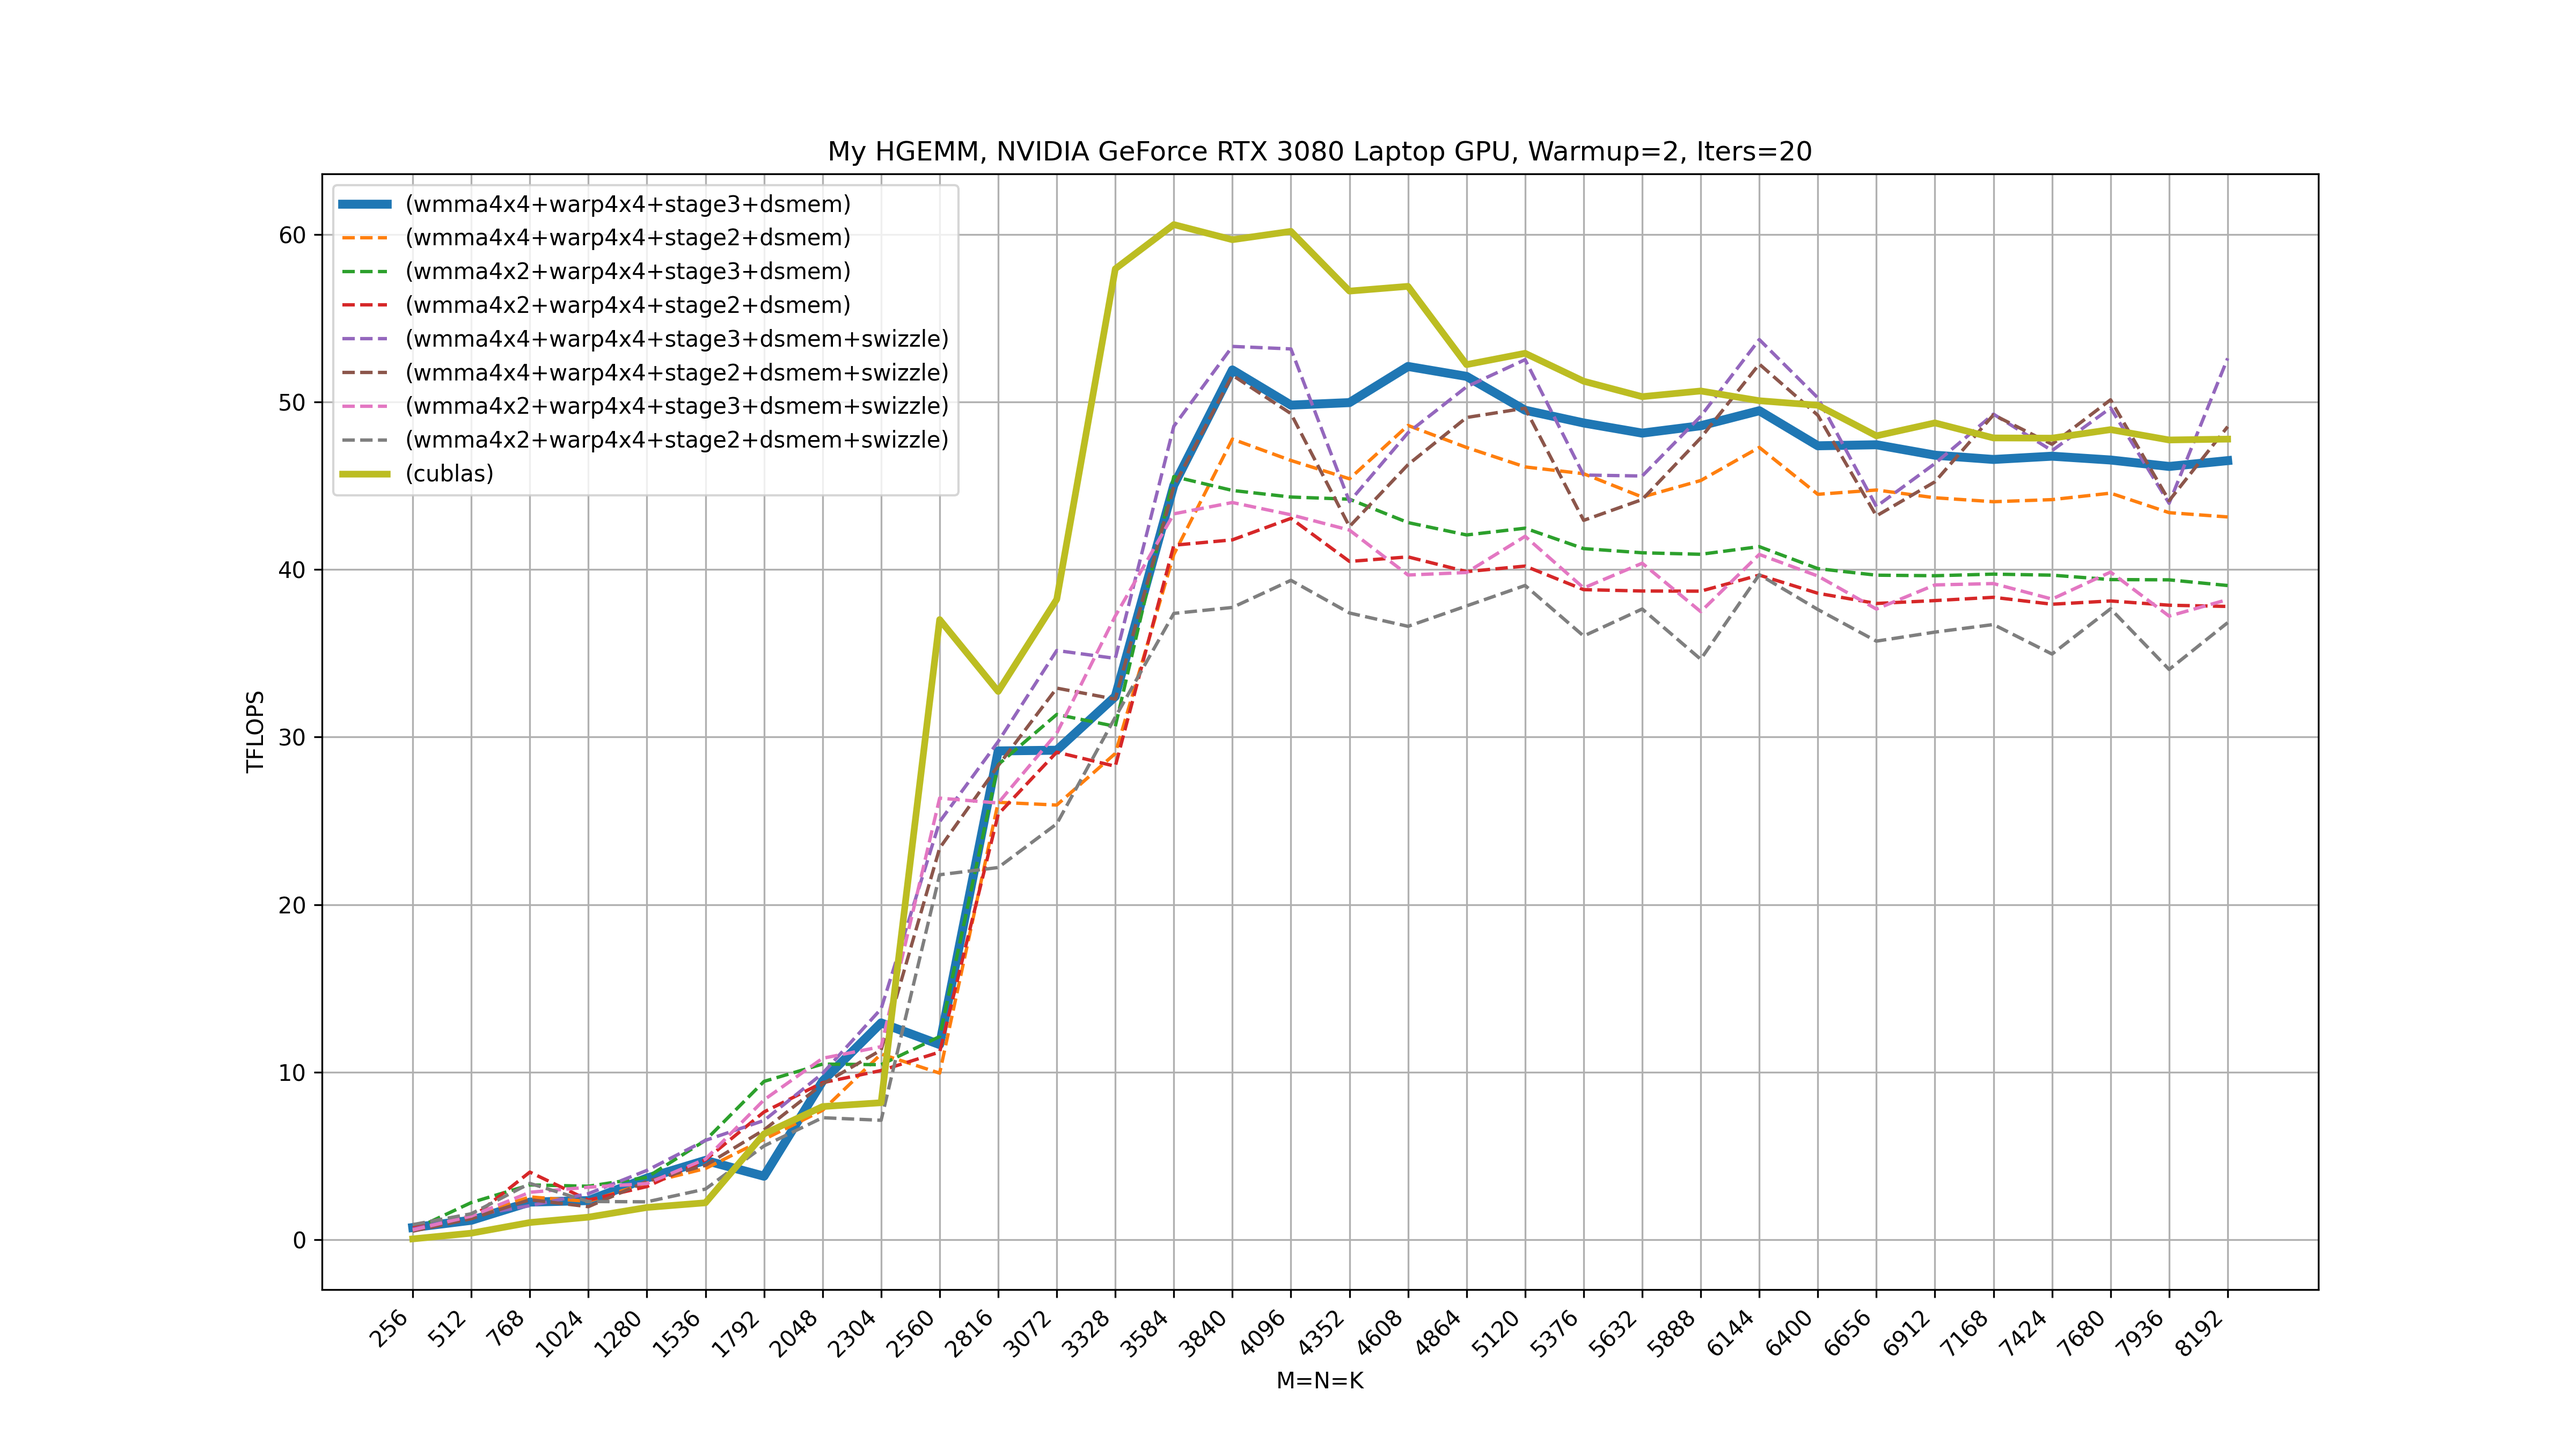
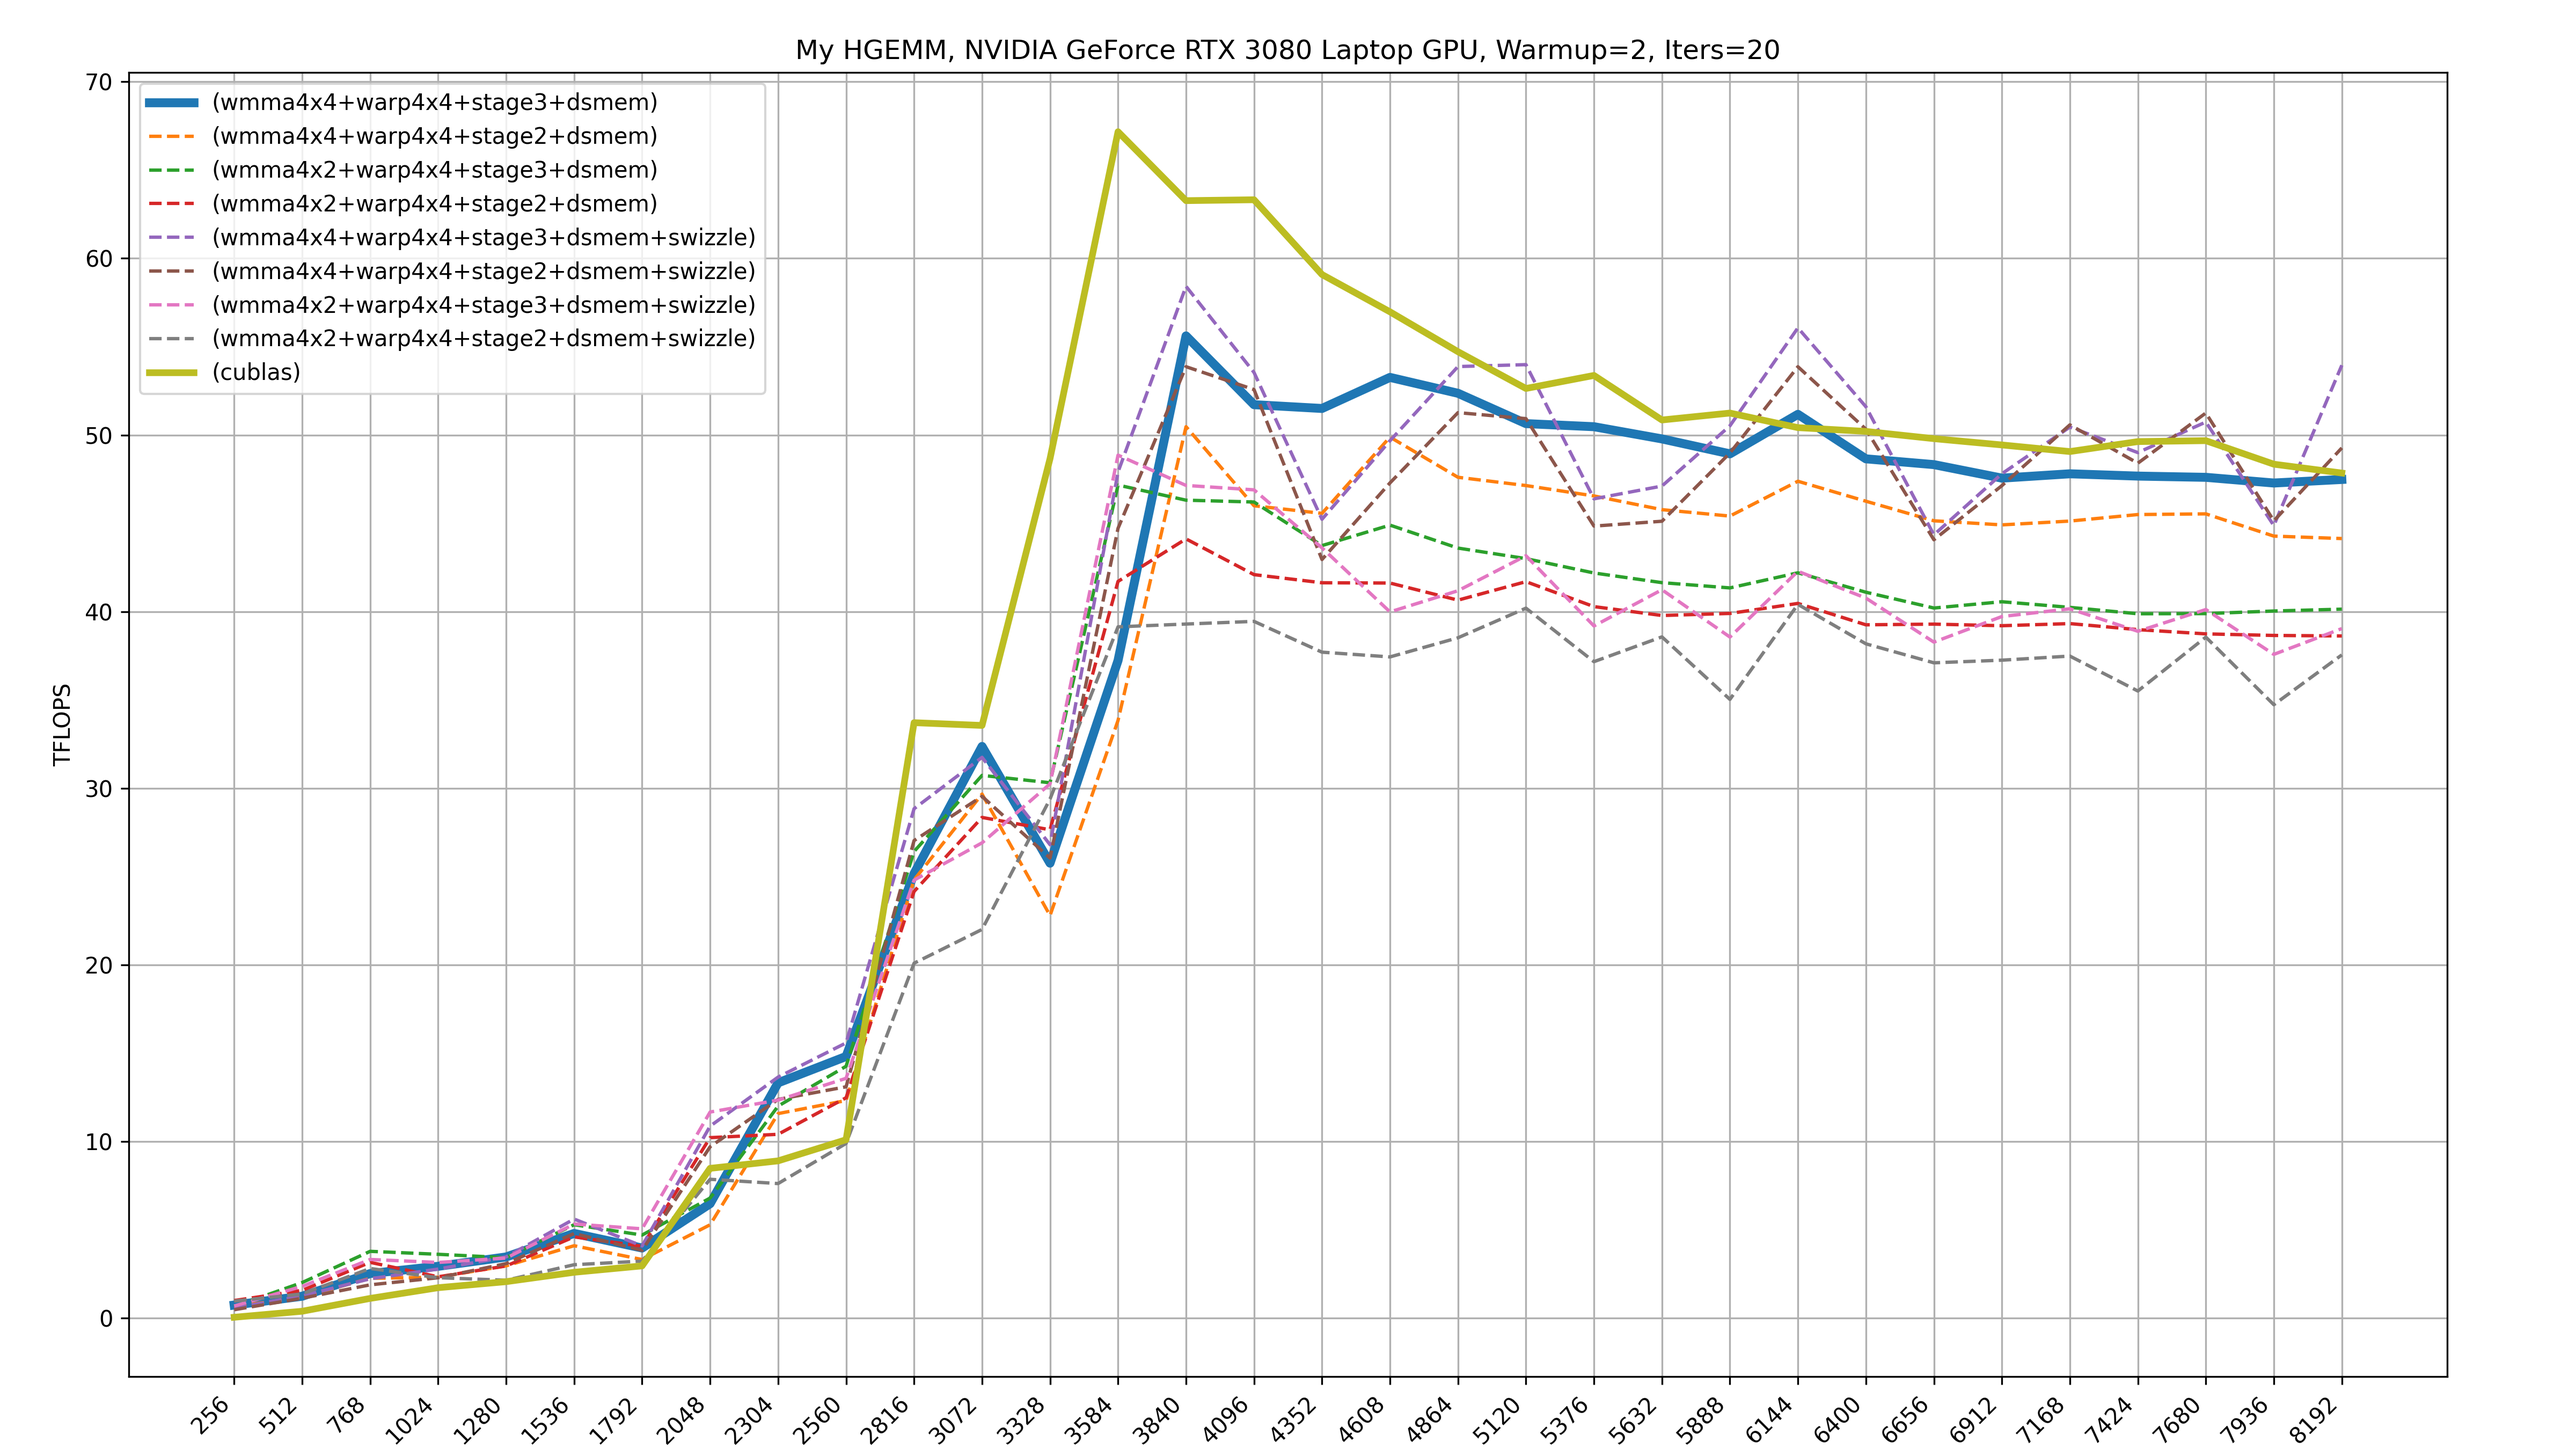
add plot tflops

diff --git a/hgemm/hgemm.py b/hgemm/hgemm.py
@@ -36,6 +36,7 @@ def get_args():
     parser.add_argument("--no-default", action="store_true", help="Disable default tests")
     parser.add_argument("--plot-flops", "--plot", action="store_true", help="Plot TFLOPS")
     parser.add_argument("--plot-topk", "--topk", type=int, default=8, help="Plot top k TFLOPS")
+    parser.add_argument("--no-hint-top1", "--no-hint", action="store_true", help="Hint top 1 TFLOPS")
     parser.add_argument("--exclude-tags", "--exclude", type=str, default=None, help="Exclude tag for plot, sperated by comma")
     parser.add_argument("--save-tag", "--tag", type=str, default=None, help="Save tag for plot")
     return parser.parse_args()
@@ -208,6 +209,7 @@ def plot_tflops():
     import matplotlib.pyplot as plt
     import numpy as np
     _, ax = plt.subplots(figsize=(16, 9))
+    plt.subplots_adjust(left=0.05, right=0.95, top=0.95, bottom=0.05)
     ax.set_title(f"My HGEMM, {get_device_name()}, Warmup={args.warmup}, Iters={args.iters}")
     ax.set_xlabel("M=N=K")
     ax.set_ylabel("TFLOPS")
@@ -233,7 +235,7 @@ def plot_tflops():
         if "cublas" in tag:
             ax.plot(tflops, label=tag, linewidth=3)
         else:
-            if is_top_1:
+            if is_top_1 and not args.no_hint_top1:
                 ax.plot(tflops, label=tag, linewidth=4)
                 is_top_1 = False
             else:

diff --git a/hgemm/README.md b/hgemm/README.md
@@ -57,11 +57,11 @@ python3 hgemm.py --wmma-all # test all wmma kernels for all MNK
 python3 hgemm.py --mma-all # test all mma kernels for all MNK
 python3 hgemm.py --cuda-all --wmma-all --mma-all # test all kernels for all MNK
 ```
-如果需要绘制TFLOPS曲线图，需要先安装matplotlib，并指定--plot-tflops（或--plot）选项:
+如果需要绘制TFLOPS曲线图，需要先安装matplotlib，并指定--plot-flops（或--plot）选项:
 ```bash
 python3 -m pip install matplotlib
 # topk指定只绘制性能最好的topk个kernel
-python3 hgemm.py --mma-all --plot-tflops --topk 8 
+python3 hgemm.py --mma-all --plot --topk 8 
 ```
 
 ## 目前性能  
